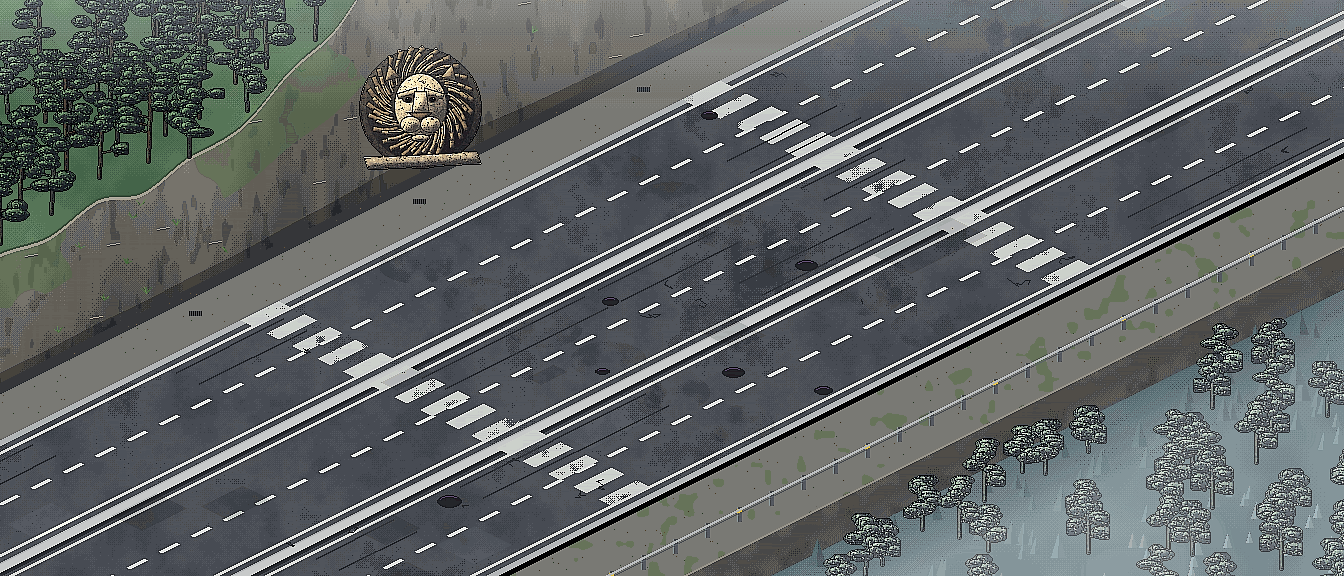
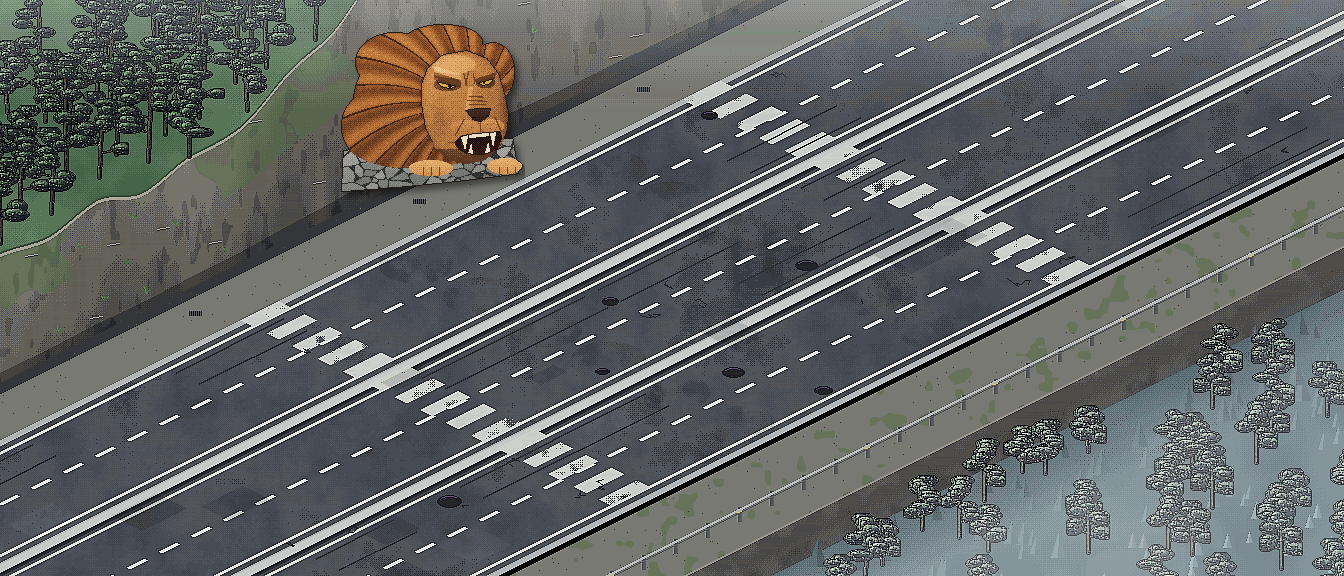
feat: Lion's Head statue, remove offline indicator, tester code label for researcher

Changed region(s): [[0.25, 0.0312, 0.4062, 0.3438]]

diff --git a/Assets/ThermoTactics/Editor/MenuSceneBuilder.cs b/Assets/ThermoTactics/Editor/MenuSceneBuilder.cs
@@ -162,7 +162,7 @@ namespace ThermoTactics.EditorTools
             TxtAt("NameLabel", form.transform, "Player name <color=#CFC6B2>(2–20 characters)</color>", BodyBold, 15, Cream, 28, 86, 384, 20, TextAnchor.MiddleLeft);
             Ref(menu, "_nameMessage", TxtAt("NameMessage", form.transform, "", BodyBold, 13, Hex("#FF9A86"), 28, 160, 384, 18, TextAnchor.MiddleLeft));
             Ref(menu, "_nameInput", NewInput("NameInput", form.transform, "Type your name", 19, 28, 110, 384, 48, ResultsDatabase.MaxNameLength));
-            TxtAt("TesterLabel", form.transform, "Tester code <color=#CFC6B2>(optional, from your teacher)</color>", BodyBold, 15, Cream, 28, 184, 384, 20, TextAnchor.MiddleLeft);
+            TxtAt("TesterLabel", form.transform, "Tester code <color=#CFC6B2>(optional, from your researcher)</color>", BodyBold, 15, Cream, 28, 184, 384, 20, TextAnchor.MiddleLeft);
             Ref(menu, "_testerInput", NewInput("TesterInput", form.transform, "e.g. TT-007", 19, 28, 208, 384, 48, 8));
 
             var infoSaved = At(Img("InfoSaved", form.transform, new Color(0.886f, 0.682f, 0.173f, 0.12f)), 28, 272, 384, 78);
@@ -195,8 +195,6 @@ namespace ThermoTactics.EditorTools
 
             Ref(menu, "_versionText", TxtAt("Version", f, "v0.2 · Stage 1 prototype", Body, 13, CreamDim, 64, 664, 400, 18));
             AddPanelFx(screen.gameObject, f);
-            Icon("OfflineIcon", f, "icon_offline", CreamDim, 976, 665, 16);
-            TxtAt("Offline", f, "Works offline · saved on this phone", Body, 13, CreamDim, 1000, 664, 216, 18);
         }
 
         private static void WeaveEdge(Transform parent, bool top)
